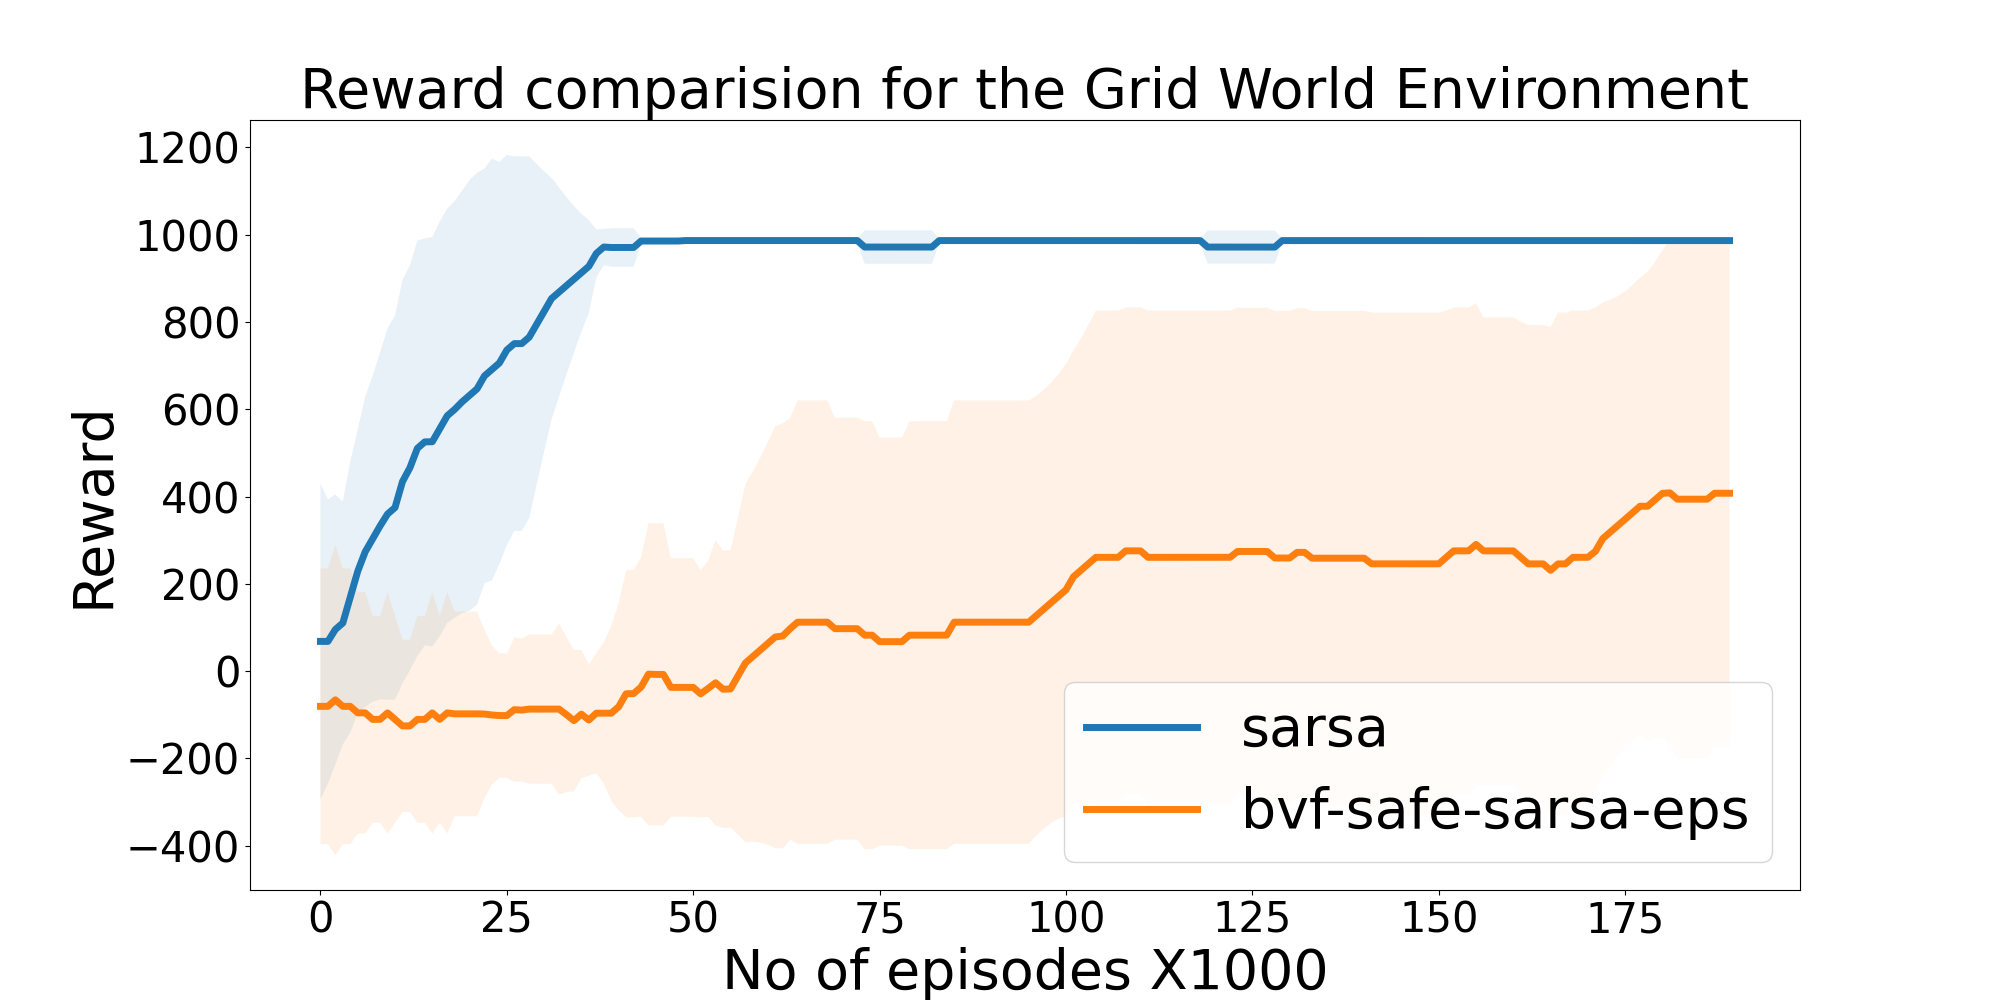
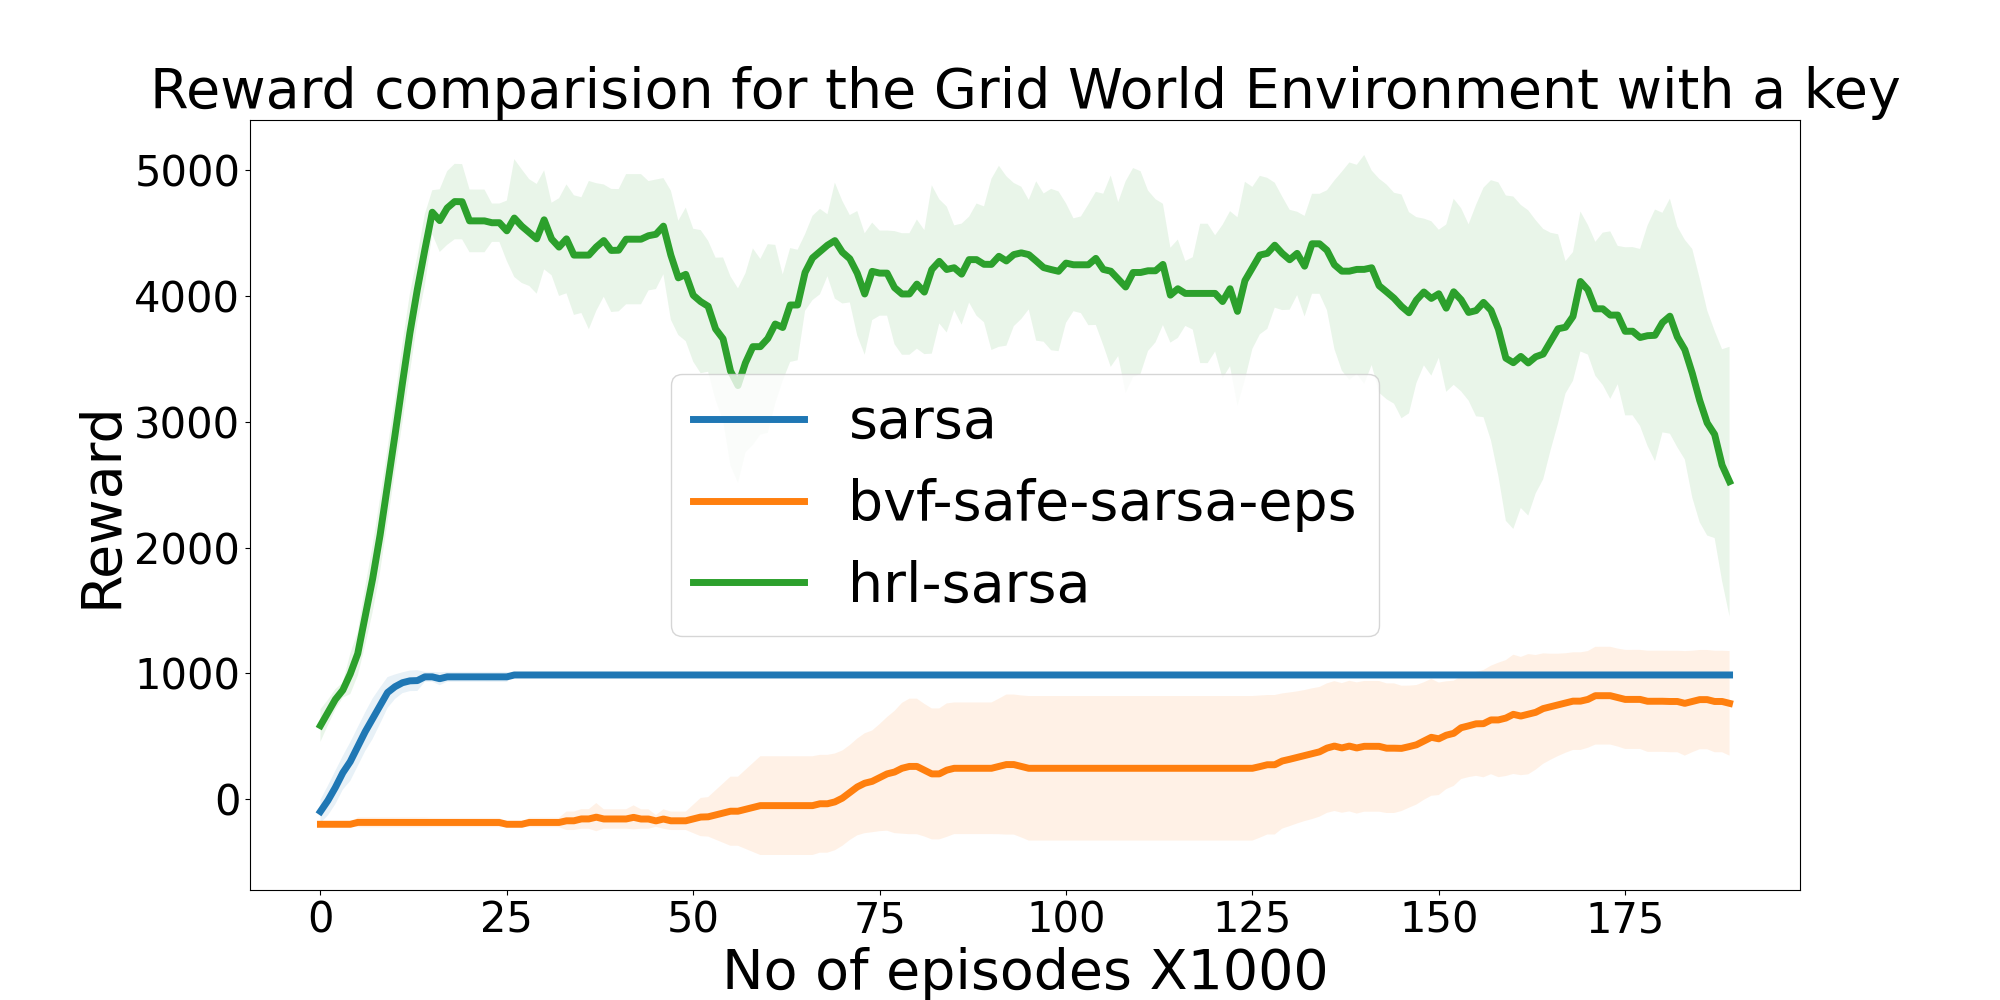
random

diff --git a/agents/ours/hrl_sarsa_agent.py b/agents/ours/hrl_sarsa_agent.py
@@ -52,7 +52,7 @@ class HRL_Discrete_Goal_SarsaAgent(object):
         self.TRAIN_CONSTRAINTS = []
 
 
-        self.eval_env = copy.deepcopy(env)
+
         self.args = args
 
         #for the time being let's skip the vectorized environment's added complexity in HRL
@@ -60,6 +60,12 @@ class HRL_Discrete_Goal_SarsaAgent(object):
         self.G = Goal_Space(goal_space=goal_space, grid_size=self.env.size)
         self.grid_size = self.env.size
 
+        c = []
+        for i in goal_space:
+            c.append(self.G.convert_value_to_coordinates(i))
+        print(c)
+
+        self.eval_env = copy.deepcopy(env)
 
         s = env.reset()
         self.state_dim = s.shape
@@ -168,6 +174,7 @@ class HRL_Discrete_Goal_SarsaAgent(object):
                 q_value = self.dqn_lower(state_goal)
                 # chose the max/greedy actions
                 action = np.array([q_value.max(0)[1].cpu().numpy()])
+
                 #print(action)
                 #print("action_greedy")
             else:
@@ -227,8 +234,8 @@ class HRL_Discrete_Goal_SarsaAgent(object):
         self.ep_constraint = 0
         start_time = time.time()
 
-        while self.num_episodes < self.args.num_episodes:
 
+        while self.num_episodes < self.args.num_episodes:
 
 
             next_state = None
@@ -246,15 +253,25 @@ class HRL_Discrete_Goal_SarsaAgent(object):
             rewards_upper= []
             done_masks   = []
 
+            IR_t = []
+            Goals_t = []
+            CS_t = []
+            T_t = []
 
-
-            for n_u in range(self.args.traj_len_u):
+            while not done:
+            #for n_u in range(self.args.traj_len_u):
 
                 state = torch.FloatTensor(state).to(device=self.device)
+                previous_state = state
+
+
+
                 goal = self.pi_meta(state=state)
 
-                goal = torch.LongTensor(goal).unsqueeze(1).to(self.device)
+                x_g, y_g = self.G.convert_value_to_coordinates(self.G.goal_space[goal.item()])
+                Goals_t.append((x_g, y_g, self.G.goal_space[goal.item()]))
 
+                goal = torch.LongTensor(goal).unsqueeze(1).to(self.device)
 
                 q_values_upper = self.dqn_meta(state)
                 Q_value_upper = q_values_upper.gather(0, goal[0])
@@ -313,12 +330,13 @@ class HRL_Discrete_Goal_SarsaAgent(object):
                         self.total_lower_time_steps += 1
 
                         state = next_state
+
                         #break if goal is current_state or the if the main episode terminated
 
                         if done or done_l:
                             break
 
-
+                    x_c, y_c = self.G.convert_value_to_coordinates(self.G.convert_hot_vec_to_value(next_state).item())
 
 
                     next_state_goal = torch.cat((next_state, goal_hot_vec))
@@ -346,8 +364,8 @@ class HRL_Discrete_Goal_SarsaAgent(object):
                 rewards_upper.append(R)
                 done_masks.append((1 - done))
 
-
-
+                CS_t.append((x_c, y_c))
+                T_t.append(t_lower)
                 if done:
 
                     self.num_episodes += 1
@@ -356,9 +374,13 @@ class HRL_Discrete_Goal_SarsaAgent(object):
                     if self.num_episodes % 100 == 0:
                         self.log_episode_stats(ep_reward=self.ep_reward, ep_constraint=self.ep_constraint)
 
+                    if self.num_episodes % 500 == 0:
+                        log("Goal State: "  + " " + str(Goals_t) + " Current State: " + str(CS_t))
+                        log("No of Higher Eps: " +  str(len(Goals_t)) + " No of lower eps: " + str(T_t))
+
                     #evaluation logging
                     if self.num_episodes % self.args.eval_every == 0:
-                        eval_reward, eval_constraint = self.eval()
+                        eval_reward, eval_constraint, IR, Goals, CS = self.eval()
 
                         print("Epsilon Upper and Lower:" + str(self.eps_u) +", " + str(self.eps_l))
 
@@ -369,6 +391,7 @@ class HRL_Discrete_Goal_SarsaAgent(object):
                         torch.save(self.EVAL_CONSTRAINTS, self.c_path)
 
                         log('----------------------------------------')
+                        log("Intrisic Reward: " + str(IR) + " Goal: " + str(Goals) + " Current State: " + str(CS))
                         log('Eval[R]: {:.2f}\t'.format(eval_reward) + \
                             'Eval[C]: {}\t'.format(eval_constraint) + \
                             'Episode: {}\t'.format(self.num_episodes) + \
@@ -414,12 +437,16 @@ class HRL_Discrete_Goal_SarsaAgent(object):
             for _ in range(self.args.eval_n):
 
                 state = self.eval_env.reset()
+                previous_state = torch.FloatTensor(state)
                 done = False
                 ep_reward = 0
                 ep_constraint = 0
                 ep_len = 0
                 start_time = time.time()
 
+                IR = []
+                Goals = []
+                CS = []
                 while not done:
 
                     # convert the state to tensor
@@ -427,6 +454,10 @@ class HRL_Discrete_Goal_SarsaAgent(object):
 
                     # get the goal
                     goal = self.pi_meta(state, greedy_eval=True)
+
+                    x_g, y_g = self.G.convert_value_to_coordinates(self.G.goal_space[goal.item()])
+                    Goals.append((x_g, y_g))
+
                     goal = torch.LongTensor(goal).unsqueeze(1).to(self.device)
 
 
@@ -434,31 +465,55 @@ class HRL_Discrete_Goal_SarsaAgent(object):
                     goal_hot_vec = torch.FloatTensor(goal_hot_vec)
 
                     t_lower = 0
+                    ir = 0
                     while t_lower <= self.args.max_ep_len_l:
 
                         action = self.pi_lower(state, goal_hot_vec, greedy_eval=True)
+                        #print(torch.equal(state, previous_state), self.G.convert_hot_vec_to_value(state), self.G.convert_hot_vec_to_value(goal_hot_vec))
+                        #print(self.dqn_lower(torch.cat((state, goal_hot_vec))), t_lower)
 
                         next_state, reward, done, info = self.eval_env.step(action.item())
                         ep_reward += reward
                         ep_len += 1
                         ep_constraint += info[self.cost_indicator]
 
+                        """
+                        NS = []
+                        for i in range(4):
+                            NS.append(self.eval_env.step(i)[0])
+
+                        T = []
+                        for ts in NS:
+                            T.append(torch.equal(state, torch.FloatTensor(ts)))
+                        print(T)
+                        """
                         next_state = torch.FloatTensor(next_state).to(self.device)
+
                         # update the state
+                        previous_state = state
                         state = next_state
 
+                        instrinc_reward = self.G.intrisic_reward(current_state=next_state,
+                                                                 goal_state=goal_hot_vec)
+                        ir += instrinc_reward
                         t_lower += 1
 
                         done_l = self.G.validate(current_state=next_state, goal_state=goal_hot_vec)
                         if done_l or done:
                             break
 
+                    IR.append(ir)
+
+                    x_c, y_c = self.G.convert_value_to_coordinates(self.G.convert_hot_vec_to_value(next_state).item())
+
+                    CS.append((x_c, y_c))
+
                 avg_reward.append(ep_reward)
                 avg_constraint.append(ep_constraint)
 
 
 
-        return np.mean(avg_reward), np.mean(avg_constraint)
+        return np.mean(avg_reward), np.mean(avg_constraint), IR, Goals, CS
 
 
 

diff --git a/plot_grid_key.py b/plot_grid_key.py
@@ -16,52 +16,71 @@ R = []
 C = []
 R_safe = []
 C_safe = []
+R_k = []
+C_k = []
 
 for i in range(no_experiments):
     R.append(torch.load("results/grid/sarsa_key/r" + str(i + 1))[:l])
     C.append(torch.load("results/grid/sarsa_key/c" + str(i + 1))[0:l])
     R_safe.append(torch.load("results/grid/safe_sarsa_key/r" + str(i+1))[:l])
     C_safe.append(torch.load("results/grid/safe_sarsa_key/c" + str(i+1))[0:l])
+    R_k.append(torch.load("results/grid/hrl_sarsa_key/r" + str(i + 1))[:l])
+    C_k.append(torch.load("results/grid/hrl_sarsa_key/c" + str(i + 1))[0:l])
 
 R_avg = []
 C_avg = []
 R_safe_avg = []
 C_safe_avg = []
+R_k_avg = []
+C_k_avg = []
 
 for j in range(len(R)):
     r_avg = []
     c_avg = []
     r_safe_avg = []
     c_safe_avg = []
+    r_k_avg = []
+    c_k_avg = []
     for i in range(10,len(R_safe[0])):
         r_avg.append(np.mean(R[j][i - 10:i]))
         c_avg.append(np.mean(C[j][i - 10:i]))
         r_safe_avg.append(np.mean(R_safe[j][i-10:i]))
         c_safe_avg.append(np.mean(C_safe[j][i-10:i]))
+        r_k_avg.append(np.mean(R_k[j][i - 10:i]))
+        c_k_avg.append(np.mean(C_k[j][i - 10:i]))
 
     R_avg.append(r_avg)
     C_avg.append(c_avg)
     R_safe_avg.append(r_safe_avg)
     C_safe_avg.append(c_safe_avg)
+    R_k_avg.append(r_k_avg)
+    C_k_avg.append(c_k_avg)
 
 R_avg = np.array(R_avg)
 C_avg = np.array(C_avg)
 R_safe_avg = np.array(R_safe_avg)
 C_safe_avg = np.array(C_safe_avg)
+R_safe_k_avg = np.array(R_safe_avg)
+C_safe_k_avg = np.array(C_safe_avg)
 
 R_mean = np.mean(R_avg, axis=0)
 C_mean = np.mean(C_avg, axis=0)
 R_safe_mean = np.mean(R_safe_avg, axis=0)
 C_safe_mean = np.mean(C_safe_avg, axis=0)
+R_k_mean = np.mean(R_k_avg, axis=0)
+C_k_mean = np.mean(C_k_avg, axis=0)
+
 
 R_std = np.std(R_avg, axis=0)
 C_std = np.std(C_avg, axis=0)
 R_safe_std = np.std(R_safe_avg, axis=0)
 C_safe_std = np.std(C_safe_avg, axis=0)
+R_k_std = np.std(R_k_avg, axis=0)
+C_k_std = np.std(C_k_avg, axis=0)
 
 
 x = [i for i in range(len(R_safe_mean))]
-legend = ["sarsa", "bvf-safe-sarsa-eps", ]
+legend = ["sarsa", "bvf-safe-sarsa-eps", "hrl-sarsa" ]
 
 fig, ax = plt.subplots(1, 1, figsize=(20, 10))
 plt.tick_params(axis='both', which='major', labelsize=30)
@@ -72,10 +91,13 @@ plt.fill_between(x, R_mean + R_std, R_mean - R_std, alpha = 0.1)
 plt.plot(x, R_safe_mean, label=legend[1], linewidth=5)
 plt.fill_between(x, R_safe_mean + R_safe_std, R_safe_mean - R_safe_std, alpha = 0.1)
 
+plt.plot(x, R_k_mean, label=legend[2], linewidth=5)
+plt.fill_between(x, R_k_mean + R_k_std, R_k_mean - R_k_std, alpha = 0.1)
+
 plt.legend( prop={'size':40})
 plt.xlabel('No of episodes X1000', size=40)
 plt.ylabel("Reward", size=40)
-plt.title("Reward comparision for the Grid World Environment", size=40)
+plt.title("Reward comparision for the Grid World Environment with a key", size=40)
 name = "figures/grid/Rewards_Key"
 plt.savefig(name)
 plt.close(fig)
@@ -90,11 +112,14 @@ plt.fill_between(x, C_mean + C_std, C_mean - C_std, alpha = 0.3)
 plt.plot(C_safe_mean, label=legend[1], linewidth=3)
 plt.fill_between(x, C_safe_mean + C_safe_std, C_safe_mean - C_safe_std, alpha = 0.3)
 
+plt.plot(C_k_mean, label=legend[2], linewidth=3)
+plt.fill_between(x, C_k_mean + C_k_std, C_k_mean - C_k_std, alpha = 0.3)
+
 plt.axhline(y=20, color='r', linestyle='--')
 plt.legend(prop={'size':40})
 plt.xlabel('No of episodes X1000', size=40)
 plt.ylabel("Constraints", size=40)
-plt.title("Constraint comparision for the Grid World Environment", size=40)
+plt.title("Constraint comparision for the Grid World Environment with a key", size=40)
 name = "figures/grid/Constraints_Key"
 
 ax.set_ylim(0, 150)

diff --git a/common/ours/arguments.py b/common/ours/arguments.py
@@ -11,10 +11,10 @@ def get_args():
     # Env
     parser = argparse.ArgumentParser(description='collect arguments')
 
-    parser.add_argument('--save_dir', type=str, default="results/grid/hrl_sarsa/")
-    parser.add_argument('--exp_no', type=str, default="7")
-    parser.add_argument("--goal_space", type=list, default=[212, 86, 135, 282, 147, 200])  #this is for dicrete goal setting in an HRL setup
-
+    parser.add_argument('--save_dir', type=str, default="results/grid/sarsa_key/")
+    parser.add_argument('--exp_no', type=str, default="8")
+    parser.add_argument("--goal_space", type=list, default=[212, 86, 160, 163, 282, 135, 200])  #this is for dicrete goal setting in an HRL setup
+    #[212, 86, 160, 163, 282, 135, 200]
     parser.add_argument('--env-name', default='pg',
                         help="pg: point gather env\n"\
                              "cheetah: safe-cheetah env\n"\
@@ -87,7 +87,7 @@ def get_args():
 
     parser.add_argument('--max_ep_len_u', type=int, default=int(5),
                         help="number of steps in an episode")
-    parser.add_argument('--max_ep_len_l', type=int, default=int(100),
+    parser.add_argument('--max_ep_len_l', type=int, default=int(80),
                         help="number of steps in an episode")
 
     # Evaluation arguments

diff --git a/misc/grid_numbering.py b/misc/grid_numbering.py
@@ -23,17 +23,25 @@ print(G.convert_value_to_coordinates(298))
 A = np.array(A)
 print(A)
 
-from common.ours.grid.utils import create_env
+
+from common.past.utils import create_env
 from common.past.arguments import get_args
 
 args = get_args()
+args.env_name = "grid_key"
 env = create_env(args)
-
 
 print(env.to_string())
 
 state = env.reset()
 state = torch.FloatTensor(state)
-print(state.shape)
-print(env.start_x, env.start_y, env.goal_x, env.goal_y)
-print(G.convert_hot_vec_to_value(state).item())
+#print(state.shape)
+#print(env.start_x, env.start_y, env.goal_x, env.goal_y)
+#print(G.convert_hot_vec_to_value(state).item())
+my = env.size-2
+mx = env.size-2
+
+print(G.convert_cooridnates_to_value(1, my//2+1))
+print(G.convert_cooridnates_to_value(mx, my//2))
+
+

diff --git a/common/ours/grid/utils.py b/common/ours/grid/utils.py
@@ -1,3 +1,5 @@
+import math
+
 import torch
 import numpy as np
 from math import sqrt
@@ -21,9 +23,10 @@ def convert_value_to_hot_vec(value, grid_size):
 def euclidian_distance(value1, value2, grid_size):
     x1, y1 = convert_int_to_coordinates(value1, grid_size)
     x2, y2 = convert_int_to_coordinates(value2, grid_size)
+    max = (math.sqrt(2*grid_size**2))
 
     d = (x1-x2)**2 + (y1-y2)**2
-    return sqrt(d)
+    return sqrt(d)/max
 
 
 #class that defines goal space

diff --git a/common/past/utils.py b/common/past/utils.py
@@ -199,7 +199,7 @@ def create_env(args):
                            constraint_cost=10.0,
                            random_action_prob=0.005,
                            one_hot_features=True,
-                           rand_goal=True,  # for testing purposes
+                           rand_goal=False,  # for testing purposes
                            )
     else:
         raise Exception("Not implemented yet")

diff --git a/envs/ours/gird/safety_gridworld_with_key.py b/envs/ours/gird/safety_gridworld_with_key.py
@@ -99,7 +99,8 @@ def generate_maze(size=27, obstacle_density=0.3, gauss_placement=False, rand_goa
                 # maze_tensor[j+1][i+1][PIT] = 1.0
                 maze_tensor[PIT][j+1][i+1] = 1.0
 
-
+    #print("Goal: " + str((goal_x+1, goal_y+1)))
+    #print("Key: " + str((key_x+1, key_y+1)))
     return maze_tensor, [start_y+1, start_x+1], [goal_y+1, goal_x+1]
 
 
